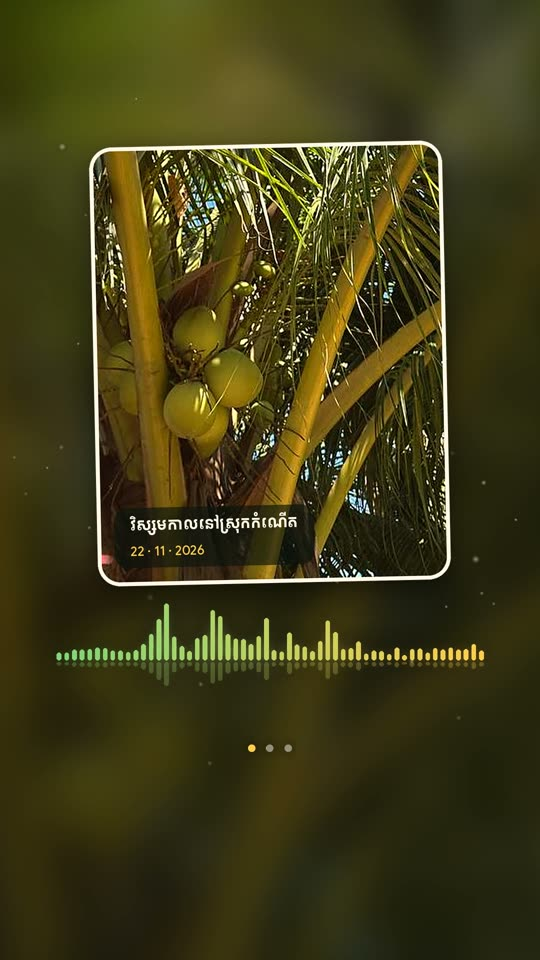
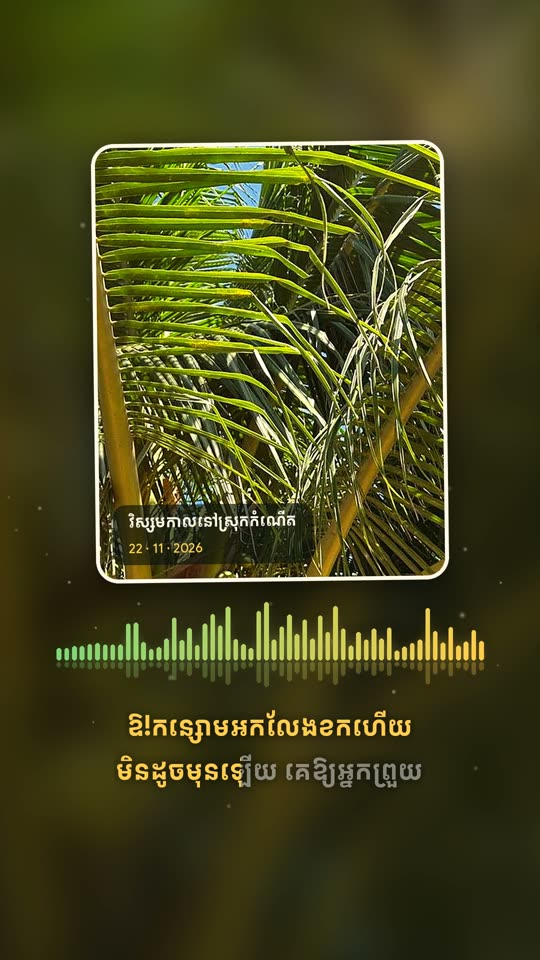
Enhance Khmer TTS documentation and update story image alt text for clarity

diff --git a/site/index.html b/site/index.html
@@ -492,7 +492,7 @@ footer{border-top:1px solid var(--line);padding:46px 0 60px;color:var(--muted);f
           </div>
         </article>
         <article class="card wide" data-reveal style="--i:2">
-          <div class="shot"><img src="/media/story.jpg" width="540" height="960" alt="Facebook Story frame: a coconut palm photo in a floating card, a gold and green sound visualizer, and a karaoke line filling in gold as it is sung" loading="lazy"></div>
+          <div class="shot"><img src="/media/story.jpg" width="540" height="960" alt="Facebook Story frame: a coconut palm photo in a floating card, a gold and green sound visualizer, and Khmer lyrics filling in gold as they are sung" loading="lazy"></div>
           <div>
             <h3>Story<span class="new">NEW</span></h3>
             <div class="km" lang="km">Facebook Story ជាមួយបទចម្រៀង</div>

diff --git a/.claude/skills/khmer-voice/SKILL.md b/.claude/skills/khmer-voice/SKILL.md
@@ -375,7 +375,20 @@ Safe areas: Facebook's profile bar covers the top ~250 px and the reply bar the 
    Music rights: the user picks the song; tell them Facebook may mute a commercial recording in a Story, and
    that its music sticker is the fallback. Never choose a song for them.
 2. **Lyrics.** Look in `description.txt` first (uploaders of Khmer songs often post the full lyrics with the
-   lyricist's name); otherwise ask the user to paste them. Never invent lyrics or put ASR guesses on screen.
+   lyricist's name); otherwise ask the user to paste them. Never invent lyrics or put ASR guesses on screen:
+   `seanghay/whisper-medium-khmer` (cached) on the separated vocals gave gibberish for a Yin Sarin song
+   (ornamented singing), only fragments like "មិនដូច" survived. **Next, read them off a karaoke video**
+   (the user wants the real words, not substitutes): search `uvx yt-dlp --flat-playlist --print "%(id)s | %(title)s"
+   "ytsearch25:<title>"` for `ភ្លេងសម្រាប់ច្រៀង` / karaoke / cover uploads (other uploads' descriptions give the
+   lyricist), download one at ≤480p, take a frame every 4 s cropped to the lyric area, stack them 6 per image
+   with timestamps and Read them; zoom 3-4× on any doubtful word (ខក vs ឯក, ឡកឡឺយ). Karaoke screens don't show
+   the sung order or repeats: take those from the recording, using the ASR fragments as anchors (they line up
+   phrase by phrase even when unreadable). Then `--align`, and snap each line start to its sung phrase where the
+   aligner drifts (it was 1.4-2.6 s late on later lines of a 1 min window). Keep a karaoke typo as shown
+   (`ក្លែម`) and tell the user. Example: `videos/hometown_story.json` (កន្សោមអក).
+   Only if no source has the words and the user asks you to decide, write short original Khmer **captions**
+   instead, one per sung phrase, with `"lyrics_style": "caption"` (lines appear whole, no karaoke sweep, so they
+   don't pass as the song's words) and `lyrics_source` saying so; tell the user plainly they are not the lyrics.
    Write `videos/audio/<song>/lyrics.txt` with one sung line per row and the halves of a Khmer couplet split
    by ` / ` (`ដេកដើរស្រមៃឱ / ដល់ថ្ងៃចៃដន្យអឺយ`); a refrain like `ជើណាកែវណានាងណា` stays one part.
 3. **Pick the minute.** From the phrase list, start ~10 s before the singing (an intro for the title) and
